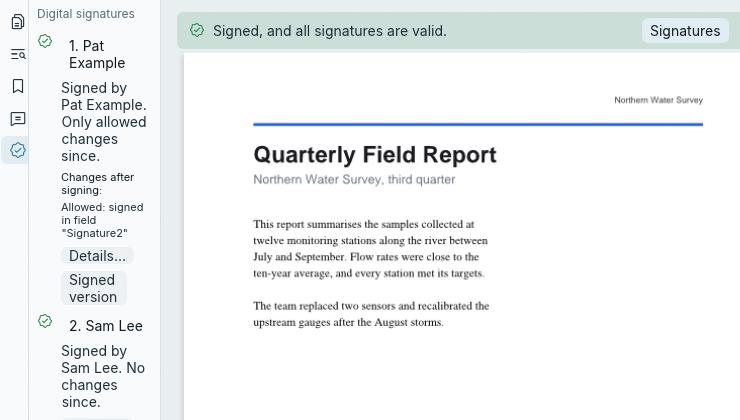
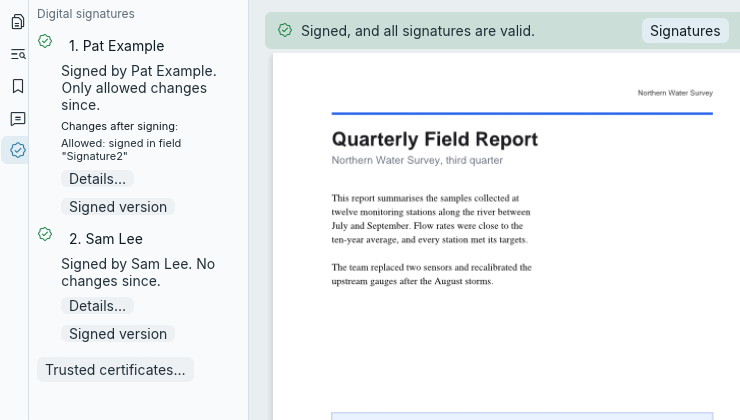
Retake the guide's screenshots for the new inspector

diff --git a/docs/developer/testing.md b/docs/developer/testing.md
@@ -174,8 +174,9 @@ side panel's widths), was checked by the app's tests above, each failing on the 
 passing headless (`cargo test --workspace`: 1,231 passed, 39 ignored), and by screenshots of the release build
 under a virtual X server (light theme, 1280 × 800 and 1000 × 660: the document, two pages, words, Watermark,
 Headers, footers, Bates (its name on two lines) and Comments at 220 points); by hand and with a screen reader it
-is not run: deferred to the RC cycle, and the guide's screenshots that show the inspector or the side panel's text
-views were not retaken. Later additions (recent files, document notices, fit width, the theme button, crop)
+is not run: deferred to the RC cycle. The guide's four screenshots that show the inspector or the side panel's text
+views (`limarepdf`, `window-tour`, `inspector`, `signatures-panel`) were retaken after it with `docshots.sh`, its
+click points and labels still right; `create-signature` came out the same, pixel for pixel. Later additions (recent files, document notices, fit width, the theme button, crop)
 were checked by screenshot under a virtual X server; not every one has been clicked through by hand. Of the newest:
 the page layouts (facing and single page) have unit tests for pairing and fitting but were not clicked through;
 viewer preferences were checked through their core tests and `limarepdf-cli view-prefs`; following them on opening and the
